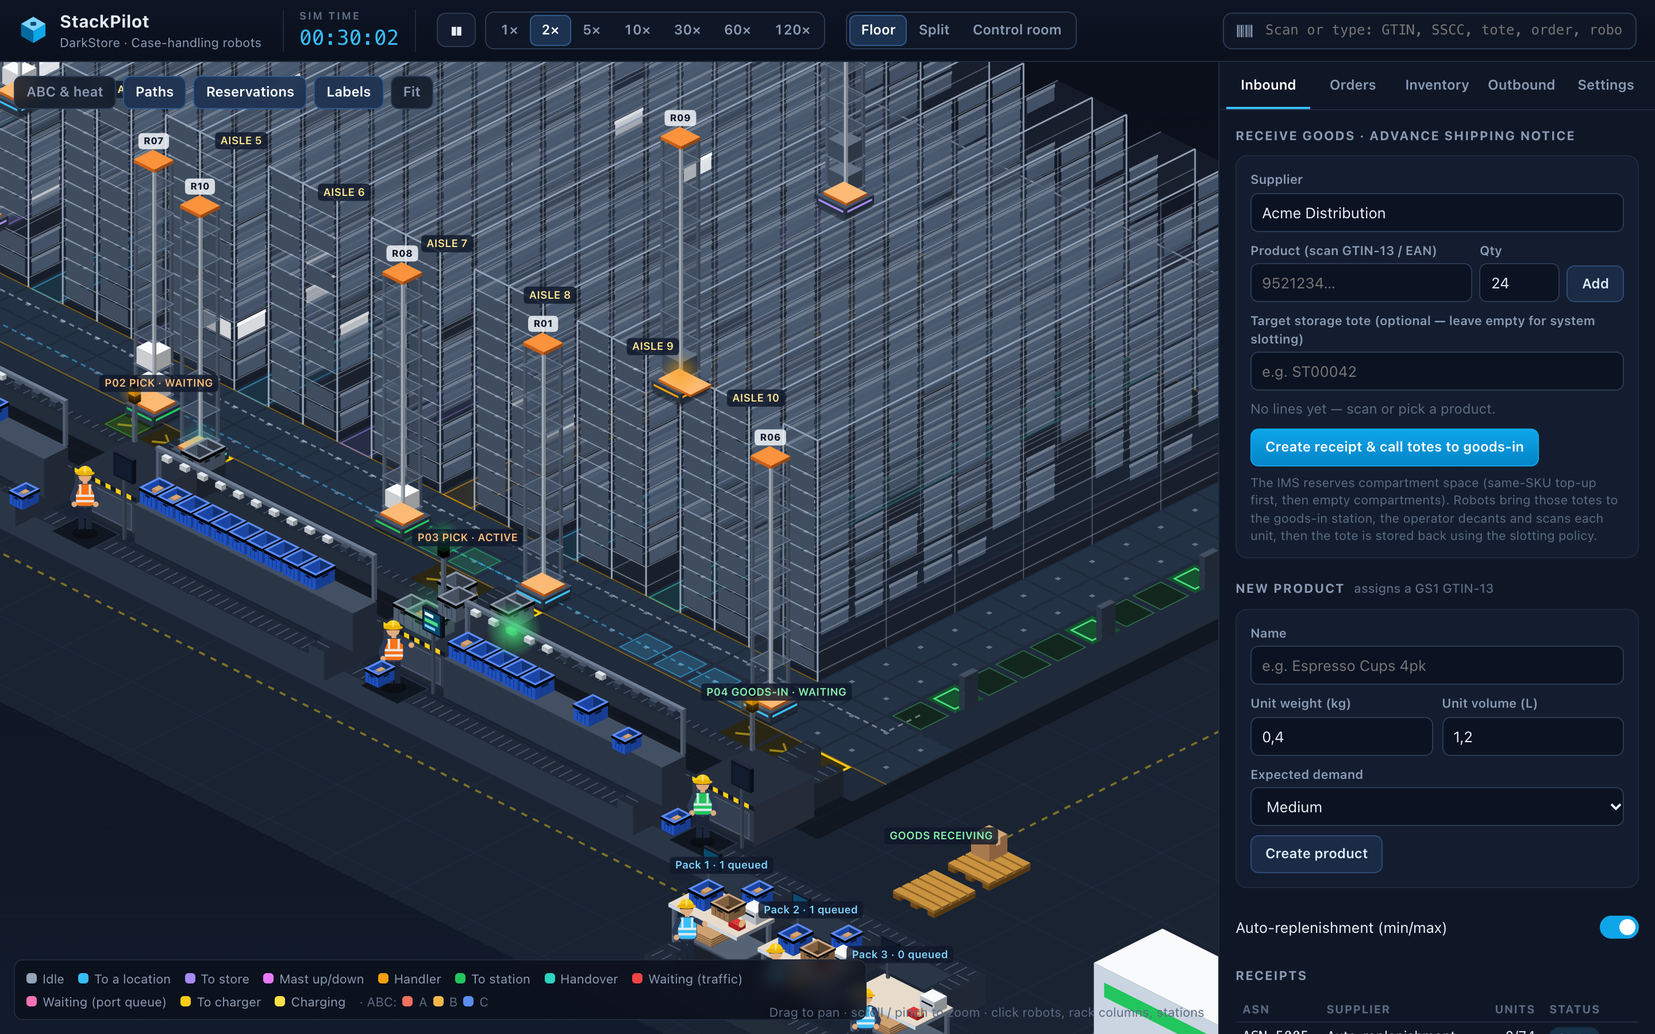
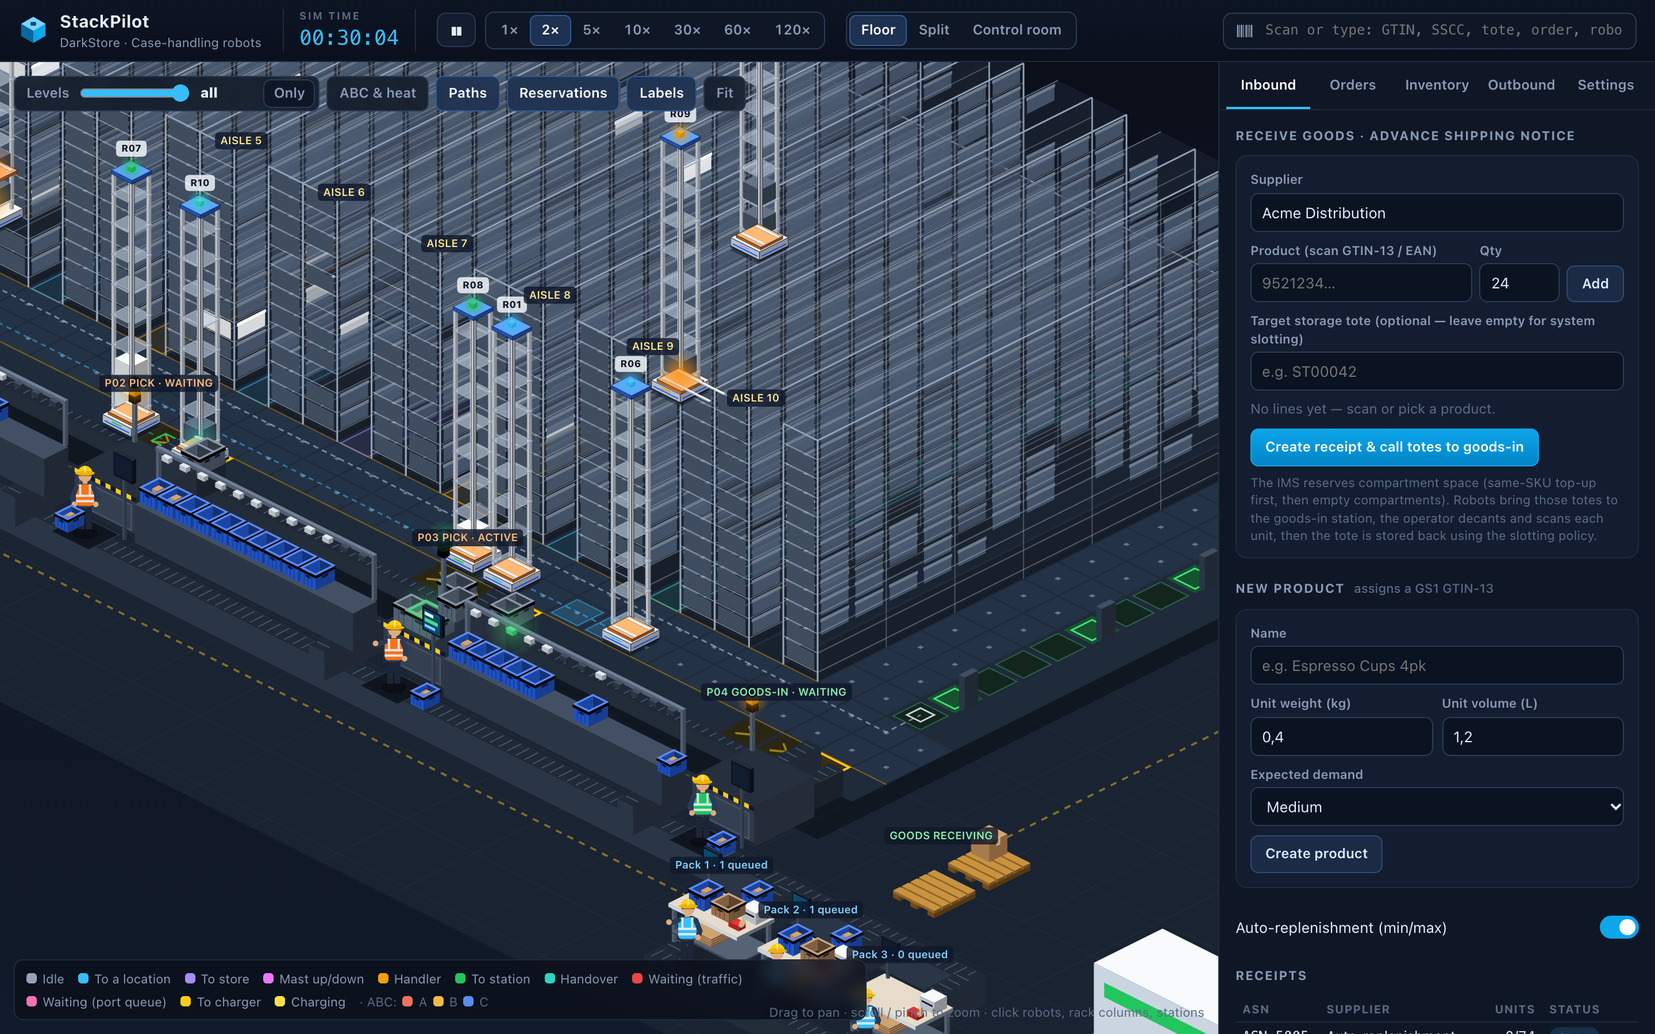
feat(render): machines that stand out and look like the real ones
Stacker cranes in safety orange with a bottom carriage on the floor rail,
hazard stripes, a control cabinet, a box-section mast, a top carriage with a
status beacon and telescopic forks that reach into the rack side being
served. Shuttles get orange end units with telescopic arms, lifts cyan
columns and a roller-conveyor carriage, StackPilot robots a white chassis
and mast with a blue top beam and an orange handler with forks. Shuttles
and cranes record which side they handle (view only; golden files
unchanged). Screenshots updated.

diff --git a/js/shuttle/render.js b/js/shuttle/render.js
@@ -1,10 +1,12 @@
 /* RailRunner view: the shared see-through racking (WS.PreZoneRenderer) with a pair
- * of shuttle rails per level, shuttles running inside the aisles, a lift tower
- * at the front of every aisle, and the pre-zone conveyor to the stations. */
+ * of shuttle rails per level, orange shuttles running inside the aisles, a cyan
+ * lift tower at the front of every aisle, and the pre-zone conveyor to the
+ * stations. */
 (function (WS) {
   'use strict';
   const { shade } = WS;
   const TOTE_H = WS.RACK_TOTE_H;
+  const ORANGE = '#f97316', ORANGE_TOP = '#fdba74', CYAN = '#06b6d4', CYAN_TOP = '#67e8f9';
 
   class ShuttleRenderer extends WS.PreZoneRenderer {
     drawScene() {
@@ -39,35 +41,47 @@
           if (!this.levelShown(l)) continue;
           const z = g.levelZ(l);
           [[aisle.outBuf[l], a * 3], [aisle.inBuf[l], a * 3 + 2]].forEach(([buf, x0]) => buf.forEach((it, k) => {
-            const b = B - 1 - k, col = '#f59e0b';
-            this.box(x0 + 0.1, b + 0.1, z + 0.06, x0 + 0.9, b + 0.9, z + 0.06 + TOTE_H, col, { top: shade(col, 0.2) });
+            const b = B - 1 - k;
+            this.toteBox(x0 + 0.1, b + 0.1, x0 + 0.9, b + 0.9, z + 0.06, this.toteColor(it.bin));
           }));
         }
-        for (const sh of aisle.shuttles) {
-          if (!this.levelShown(sh.l)) continue;
-          const z = g.levelZ(sh.l), x0 = a * 3 + 1.08, x1 = a * 3 + 1.92, y0 = sh.pos - 0.45, y1 = sh.pos + 0.45, col = WS.stateColor(this.sim, sh.displayState);
-          if (!sh.idle) this.glow(a * 3 + 1.5, sh.pos, z + 0.3, 22, col, 0.55);
-          // dark chassis on the rails, a state-coloured light band, a yellow load handler on top
-          this.box(x0, y0, z + 0.02, x1, y1, z + 0.34, '#273244', { top: '#3b4a60', left: '#222b3a', right: '#1a2230' });
-          this.faceY(y1 + 0.002, x0 + 0.06, x1 - 0.06, z + 0.14, z + 0.24, col);
-          this.faceX(x1 + 0.002, y0 + 0.06, y1 - 0.06, z + 0.14, z + 0.24, shade(col, -0.25));
-          this.quadTop(x0 + 0.12, y0 + 0.08, x1 - 0.12, y1 - 0.08, z + 0.341, sh.idle ? '#5c4a14' : '#ca8a04');
-          if (sh.bin) { const b = sim.inv.binById.get(sh.bin), c2 = this.toteColor(b); this.box(x0 + 0.08, y0 + 0.08, z + 0.34, x1 - 0.08, y1 - 0.08, z + 0.34 + TOTE_H, c2, { top: shade(c2, 0.15) }); }
-          const sel = this.selected && this.selected.kind === 'robot' && this.selected.id === sh.id;
-          if (sel) this.quadTop(x0 - 0.1, y0 - 0.1, x1 + 0.1, y1 + 0.1, z + 0.02, null, '#38bdf8', 2.5);
-        }
+        for (const sh of aisle.shuttles) if (this.levelShown(sh.l)) this.drawShuttle(sh, a);
       }
     }
-    // Lift tower in front of the aisle with its carriage and the I/O transfer.
+    // A shuttle in safety orange: two end units carrying the telescopic arms,
+    // which reach into the left or right rack while it takes or puts a tote,
+    // a dark deck between them for the tote, a status light on the front.
+    drawShuttle(sh, a) {
+      const sim = this.sim, g = sim.grid, z = g.levelZ(sh.l), cx = a * 3 + 1.5, y = sh.pos, x0 = cx - 0.42, x1 = cx + 0.42, y0 = y - 0.45, y1 = y + 0.45;
+      const col = WS.stateColor(sim, sh.displayState), edge = { stroke: 'rgba(15,23,42,0.55)', lw: 0.8 };
+      if (!sh.idle) this.glow(cx, y, z + 0.3, 22, ORANGE, 0.4);
+      let e = 0;
+      if (sh.state === 'HANDLING' && sh.op && sh.op.op === 'wait') e = Math.sin(Math.PI * Math.min(1, sh.op.t / sh.op.dur)) * 0.75;
+      this.box(x0 + 0.04, y0 + 0.14, z + 0.02, x1 - 0.04, y1 - 0.14, z + 0.12, '#1f2937', { top: '#334155' });
+      if (sh.bin) this.toteBox(x0 + 0.1, y0 + 0.17, x1 - 0.1, y1 - 0.17, z + 0.12, this.toteColor(sim.inv.binById.get(sh.bin)));
+      for (const [ya, yb] of [[y0, y0 + 0.14], [y1 - 0.14, y1]]) {
+        this.box(x0, ya, z + 0.02, x1, yb, z + 0.38, ORANGE, Object.assign({ top: ORANGE_TOP }, edge));
+        const ax0 = sh.face === 0 ? x0 - e : x0, ax1 = sh.face === 1 ? x1 + e : x1;
+        this.box(ax0, ya + 0.03, z + 0.38, ax1, yb - 0.03, z + 0.45, '#e2e8f0', { top: '#f8fafc' });
+      }
+      this.faceY(y1 + 0.002, x0 + 0.1, x1 - 0.1, z + 0.16, z + 0.28, col);
+      this.faceX(x1 + 0.002, y1 - 0.12, y1 - 0.02, z + 0.16, z + 0.28, col);
+      const sel = this.selected && this.selected.kind === 'robot' && this.selected.id === sh.id;
+      if (sel) this.quadTop(x0 - 0.1, y0 - 0.1, x1 + 0.1, y1 + 0.1, z + 0.02, null, '#38bdf8', 2.5);
+    }
+    // Vertical lift in front of the aisle: cyan columns and header, and a
+    // carriage with a roller conveyor that carries one tote.
     drawLift(aisle) {
-      const g = this.sim.grid, lift = aisle.lift, x0 = aisle.a * 3 + 1.08, x1 = aisle.a * 3 + 1.92, y0 = g.B + 0.06, y1 = g.B + 0.94;
-      for (const [px, py] of [[x0, y0], [x1, y0], [x0, y1], [x1, y1]]) this.box(px - 0.04, py - 0.04, 0, px + 0.04, py + 0.04, g.Z + 0.8, '#64748b');
-      this.box(x0 - 0.04, y0 - 0.04, g.Z + 0.8, x1 + 0.04, y1 + 0.04, g.Z + 1.1, '#475569');
-      const col = WS.stateColor(this.sim, lift.displayState);
-      this.box(x0 + 0.04, y0 + 0.04, lift.z - 0.12, x1 - 0.04, y1 - 0.04, lift.z, '#94a3b8', { top: '#334155' });
-      this.faceY(y1 - 0.039, x0 + 0.04, x1 - 0.04, lift.z - 0.12, lift.z - 0.02, col);
-      if (lift.bin) { const b = this.sim.inv.binById.get(lift.bin), c2 = this.toteColor(b); this.box(x0 + 0.12, y0 + 0.1, lift.z, x1 - 0.12, y1 - 0.1, lift.z + TOTE_H, c2, { top: shade(c2, 0.15) }); }
-      if (!lift.idle) this.glow(aisle.a * 3 + 1.5, g.B + 0.5, lift.z + 0.5, 18, col, 0.45);
+      const g = this.sim.grid, lift = aisle.lift, x0 = aisle.a * 3 + 1.06, x1 = aisle.a * 3 + 1.94, y0 = g.B + 0.06, y1 = g.B + 0.94, H = g.Z + 0.8;
+      const col = WS.stateColor(this.sim, lift.displayState), edge = { stroke: 'rgba(15,23,42,0.55)', lw: 0.8 }, cy = Object.assign({ top: CYAN_TOP }, edge);
+      for (const px of [x0, x1 - 0.1]) this.box(px, y0, 0, px + 0.1, y0 + 0.12, H, CYAN, cy);
+      this.box(x0, y0, H, x1, y0 + 0.16, H + 0.3, CYAN, cy);
+      this.hazardY(y0 + 0.122, x0, x0 + 0.1, 0.1, 0.9, 3); this.hazardY(y0 + 0.122, x1 - 0.1, x1, 0.1, 0.9, 3);
+      if (!lift.idle) this.glow(aisle.a * 3 + 1.5, g.B + 0.5, lift.z + 0.4, 20, CYAN, 0.45);
+      this.box(x0 + 0.1, y0 + 0.12, lift.z - 0.16, x1 - 0.1, y1 - 0.04, lift.z, CYAN, Object.assign({ top: '#164e63' }, edge));
+      for (let k = 1; k < 6; k++) { const ry = y0 + 0.12 + ((y1 - y0 - 0.16) * k) / 6; this.line(this.P(x0 + 0.12, ry, lift.z + 0.001), this.P(x1 - 0.12, ry, lift.z + 0.001), '#67e8f9', 1); }
+      this.faceY(y1 - 0.038, x0 + 0.16, x1 - 0.16, lift.z - 0.13, lift.z - 0.05, col);
+      if (lift.bin) { const b = this.sim.inv.binById.get(lift.bin), c2 = this.toteColor(b); this.box(x0 + 0.16, y0 + 0.18, lift.z, x1 - 0.16, y1 - 0.1, lift.z + TOTE_H, c2, { top: shade(c2, 0.15) }); }
       const sel = this.selected && this.selected.kind === 'robot' && this.selected.id === lift.id;
       if (sel) this.quadTop(x0 - 0.1, y0 - 0.1, x1 + 0.1, y1 + 0.1, lift.z, null, '#38bdf8', 2.5);
       // totes waiting to go up

diff --git a/js/acr/render.js b/js/acr/render.js
@@ -8,6 +8,7 @@
   'use strict';
   const C = WS.CELL;
   const BODY = 0.55; // drive unit height (render levels)
+  const BLUE = '#2563eb', ORANGE = '#f97316';
 
   class AcrRenderer extends WS.RackRenderer {
     drawScene(alpha) {
@@ -107,39 +108,44 @@
     }
 
     // ---------------------------------------------------------------- robots
-    // Drive unit, mast with the back shelves (top shelf first holds the first
-    // tote loaded), the handler at its current height reaching into the rack
-    // while it takes or puts a tote.
+    // A case-handling robot: a white drive unit with a dark bumper and a blue
+    // accent, a white mast frame with the back shelves (the totes it carries),
+    // a blue top beam with a status beacon, and the orange handler at its
+    // current height, its forks reaching into the rack while it takes or puts.
     drawRobot(r, x, y) {
-      const sim = this.sim, g = sim.grid, N = sim.cfg.robotSlots, col = WS.stateColor(this.sim, r.displayState);
+      const sim = this.sim, g = sim.grid, N = sim.cfg.robotSlots, col = WS.stateColor(sim, r.displayState);
       const cx = x + 0.5, cy = y + 0.5, H = g.Z + 0.5, x0 = cx - 0.3, x1 = cx + 0.3, y0 = cy - 0.28, y1 = cy + 0.28;
+      const edge = { stroke: 'rgba(15,23,42,0.5)', lw: 0.8 };
       this.quadTop(cx - 0.36, cy - 0.34, cx + 0.48, cy + 0.5, 0.005, 'rgba(0,0,0,0.35)');
-      this.box(cx - 0.42, cy - 0.42, 0.02, cx + 0.42, cy + 0.42, BODY, '#334155', { top: '#475569' });
-      this.faceY(cy + 0.421, cx - 0.36, cx + 0.36, 0.28, 0.4, col);
-      this.faceX(cx + 0.421, cy - 0.36, cy + 0.36, 0.28, 0.4, col);
-      // mast: back posts, shelves with totes, front post
-      for (const [px, py] of [[x0, y0], [x1 - 0.06, y0], [x0, y1 - 0.06]]) this.box(px, py, BODY, px + 0.06, py + 0.06, H, '#64748b');
-      this.ctx.globalAlpha = 0.3;
-      this.box(x0, y0, BODY, x1, y1, H, '#475569', { top: '#64748b' });
-      this.ctx.globalAlpha = 1;
+      this.box(cx - 0.42, cy - 0.42, 0.02, cx + 0.42, cy + 0.42, BODY, '#e2e8f0', Object.assign({ top: '#f8fafc' }, edge));
+      this.faceY(cy + 0.421, cx - 0.42, cx + 0.42, 0.02, 0.12, '#1e293b'); this.faceX(cx + 0.421, cy - 0.42, cy + 0.42, 0.02, 0.12, '#0f172a');
+      this.faceY(cy + 0.422, cx - 0.36, cx + 0.36, 0.22, 0.3, BLUE); this.faceX(cx + 0.422, cy - 0.36, cy + 0.36, 0.22, 0.3, '#1d4ed8');
+      this.faceY(cy + 0.423, cx - 0.14, cx + 0.14, 0.36, 0.44, col);
+      // mast frame: back posts, shelves with totes, front post
+      for (const [px, py] of [[x0, y0], [x1 - 0.07, y0], [x0, y1 - 0.07]]) this.box(px, py, BODY, px + 0.07, py + 0.07, H, '#e2e8f0', { top: '#f8fafc' });
       for (let k = 0; k < N; k++) {
         const z = BODY + 0.5 + (k * (H - BODY - 1.6)) / Math.max(1, N - 1);
-        this.quadTop(x0, y0, x1, y1, z, 'rgba(71,85,105,0.7)', '#64748b', 1);
+        this.quadTop(x0, y0, x1, y1, z, 'rgba(203,213,225,0.55)', '#94a3b8', 1);
         const id = r.load[k];
-        if (id) this.toteBox(x0 + 0.04, y0 + 0.04, x1 - 0.04, y1 - 0.04, z, this.toteColor(sim.inv.binById.get(id)));
+        if (id) this.toteBox(x0 + 0.05, y0 + 0.05, x1 - 0.05, y1 - 0.05, z, this.toteColor(sim.inv.binById.get(id)));
       }
-      this.box(x1 - 0.06, y1 - 0.06, BODY, x1, y1, H, '#cbd5e1');
-      this.box(x0, y0, H, x1, y1, H + 0.18, '#f97316', { top: '#fb923c' });
-      // handler: a tray on the mast, reaching left or right into the rack
+      this.box(x1 - 0.07, y1 - 0.07, BODY, x1, y1, H, '#f8fafc', Object.assign({ top: '#ffffff' }, edge));
+      this.box(x0, y0, H, x1, y1, H + 0.2, BLUE, Object.assign({ top: '#60a5fa' }, edge));
+      this.box(cx - 0.06, cy - 0.06, H + 0.2, cx + 0.06, cy + 0.06, H + 0.45, col, { top: WS.shade(col, 0.35) });
+      this.glow(cx, cy, H + 0.35, 12, col, 0.8);
+      // handler: a tray with forks reaching left or right into the rack
       let e = 0;
       if (r.state === 'HANDLING' && r.op && r.op.op === 'timer') e = Math.sin(Math.PI * Math.min(1, r.op.t / r.op.dur)) * 0.75;
-      const hx0 = r.face ? cx - 0.34 : cx - 0.34 - e, hx1 = r.face ? cx + 0.34 + e : cx + 0.34;
-      this.box(hx0, cy - 0.3, r.mast - 0.06, hx1, cy + 0.3, r.mast + 0.08, '#f97316', { top: '#fdba74' });
-      if (r.state === 'HANDLING' || r.state === 'MAST') this.glow(cx, cy, r.mast + 0.3, 18, col, 0.35);
+      this.box(cx - 0.36, cy - 0.32, r.mast - 0.08, cx + 0.36, cy + 0.32, r.mast + 0.06, ORANGE, Object.assign({ top: '#fdba74' }, edge));
+      for (const fy of [cy - 0.24, cy + 0.18]) {
+        const fx0 = r.face ? cx - 0.3 : cx - 0.36 - e, fx1 = r.face ? cx + 0.36 + e : cx + 0.3;
+        this.box(fx0, fy, r.mast + 0.06, fx1, fy + 0.06, r.mast + 0.11, '#cbd5e1', { top: '#f1f5f9' });
+      }
+      if (r.state === 'HANDLING' || r.state === 'MAST') this.glow(cx, cy, r.mast + 0.3, 20, ORANGE, 0.45);
       if (r.displayState === 'WAITING_IN_TRAFFIC' || r.busy) this.glow(cx, cy, BODY + 0.4, 20, col, 0.35 + 0.25 * Math.sin(this.t * 6));
       const sel = this.selected && this.selected.kind === 'robot' && this.selected.id === r.id;
       if (sel) this.quadTop(x - 0.06, y - 0.06, x + 1.06, y + 1.06, 0.02, null, '#38bdf8', 2.5);
-      if (this.opts.labels) this.robotTag(r, cx, cy, H + 1.2, 'rgba(241,245,249,0.85)');
+      if (this.opts.labels) this.robotTag(r, cx, cy, H + 1.4, 'rgba(241,245,249,0.85)');
     }
     // totes back from a station, waiting on its return conveyor for a robot
     drawReturns(p) {

diff --git a/js/crane/render.js b/js/crane/render.js
@@ -1,9 +1,11 @@
 /* SkyStack view: the shared see-through racking (WS.PreZoneRenderer) with a floor
- * rail and a top guide rail in every aisle, a stacker crane per aisle (mast,
- * drive unit, carriage with a twin load handler), returning totes waiting at
+ * rail and a top guide rail in every aisle, an orange stacker crane per aisle
+ * (drive unit, mast, carriage with a twin load handler), returning totes waiting at
  * the I/O point and the pre-zone conveyor to the stations. */
 (function (WS) {
   'use strict';
+  const { shade } = WS;
+  const ORANGE = '#f97316', ORANGE_TOP = '#fdba74';
 
   class CraneRenderer extends WS.PreZoneRenderer {
     drawScene() {
@@ -27,24 +29,46 @@
       if (this.opts.cutTop == null) this.line(P(cx, 0, g.Z + 0.35), P(cx, y1, g.Z + 0.35), 'rgba(250,204,21,0.45)', 1.2);
     }
 
+    // A mini-load stacker crane in safety orange: bottom carriage on the floor
+    // rail with the control cabinet in front, a box-section mast, the top
+    // carriage on the guide rail with a status beacon, and the lifting
+    // carriage whose telescopic forks reach into a rack side or the I/O point.
     drawCrane(cr) {
-      const sim = this.sim, g = sim.grid, cx = g.laneX(cr.a), y = cr.pos, z = cr.z, col = WS.stateColor(this.sim, cr.displayState), top = g.Z + 0.35;
-      if (!cr.idle) this.glow(cx, y, z + 0.4, 26, col, 0.5);
-      // drive unit on the floor rail, mast behind the carriage, guide wheels at the top
-      this.box(cx - 0.3, y - 0.55, 0, cx + 0.3, y + 0.55, 0.32, '#273244', { top: '#3b4a60', left: '#222b3a', right: '#1a2230' });
-      this.faceY(y + 0.552, cx - 0.24, cx + 0.24, 0.12, 0.22, col);
-      this.box(cx - 0.12, y - 0.52, 0.32, cx + 0.12, y - 0.32, top, '#64748b');
-      this.box(cx - 0.16, y - 0.56, top, cx + 0.16, y - 0.28, top + 0.22, '#475569');
-      // carriage with the load handler, a state-coloured band and up to two totes
-      const x0 = cx - 0.44, x1 = cx + 0.44, y0 = y - 0.32, y1 = y + 0.5;
-      this.box(x0, y0, z - 0.16, x1, y1, z, '#94a3b8', { top: cr.idle ? '#5c4a14' : '#ca8a04' });
-      this.faceY(y1 + 0.002, x0 + 0.05, x1 - 0.05, z - 0.13, z - 0.04, col);
+      const sim = this.sim, g = sim.grid, cx = g.laneX(cr.a), y = cr.pos, z = cr.z, col = WS.stateColor(sim, cr.displayState), top = g.Z + 0.35;
+      const edge = { stroke: 'rgba(15,23,42,0.55)', lw: 0.8 }, or = Object.assign({ top: ORANGE_TOP }, edge);
+      if (cr.state !== 'IDLE') this.glow(cx, y, z + 0.3, 30, ORANGE, 0.3);
+      // bottom carriage with wheels, hazard stripes at the ends
+      this.box(cx - 0.26, y - 0.72, 0.02, cx + 0.26, y + 0.62, 0.42, ORANGE, or);
+      this.hazardY(y + 0.622, cx - 0.26, cx + 0.26, 0.1, 0.34, 6);
+      for (const wy of [y - 0.5, y + 0.4]) this.wheelX(cx + 0.262, wy, 0.17, 0.12, 0.12);
+      // mast, its carriage guide, the top carriage and the beacon
+      this.box(cx - 0.16, y - 0.62, 0.42, cx + 0.16, y - 0.3, top, ORANGE, or);
+      this.faceY(y - 0.298, cx - 0.05, cx + 0.05, 0.5, top - 0.05, '#9a3412');
+      this.box(cx - 0.22, y - 0.7, top, cx + 0.22, y - 0.22, top + 0.32, ORANGE, or);
+      this.box(cx - 0.07, y - 0.53, top + 0.32, cx + 0.07, y - 0.39, top + 0.6, col, { top: shade(col, 0.35) });
+      this.glow(cx, y - 0.46, top + 0.5, 14, col, 0.8);
+      // control cabinet on the front end
+      this.box(cx - 0.2, y + 0.62, 0.02, cx + 0.2, y + 0.92, 1.8, '#e2e8f0', Object.assign({ top: '#f8fafc' }, edge));
+      this.faceY(y + 0.922, cx - 0.13, cx + 0.13, 1.25, 1.6, '#0f172a');
+      this.faceY(y + 0.924, cx - 0.1, cx + 0.04, 1.42, 1.5, col);
+      // lifting carriage: orange side plates, dark deck, telescopic forks
+      const x0 = cx - 0.44, x1 = cx + 0.44, y0 = y - 0.3, y1 = y + 0.5;
+      let e = 0;
+      if (cr.state === 'HANDLING' && cr.op && cr.op.op === 'wait') e = Math.sin(Math.PI * Math.min(1, cr.op.t / cr.op.dur)) * 0.8;
+      this.box(x0, y0, z - 0.2, x1, y1, z - 0.04, '#334155', Object.assign({ top: '#475569' }, edge));
+      for (const fy of [y0 + 0.12, y1 - 0.16]) {
+        const fx0 = cr.face === 0 ? x0 - e : x0 + 0.06, fx1 = cr.face === 1 ? x1 + e : x1 - 0.06;
+        this.box(fx0, fy, z - 0.06, fx1, fy + 0.05, z, '#cbd5e1', { top: '#e2e8f0' });
+      }
+      if (cr.face < 0 && e) this.box(cx - 0.3, y1, z - 0.06, cx + 0.3, y1 + e, z, '#cbd5e1', { top: '#e2e8f0' });
       cr.load.forEach((id, k) => {
         const c2 = this.toteColor(sim.inv.binById.get(id)), ya = y0 + 0.04 + k * 0.4;
-        this.toteBox(x0 + 0.06, ya, x1 - 0.06, ya + 0.36, z, c2);
+        this.toteBox(x0 + 0.1, ya, x1 - 0.1, ya + 0.36, z, c2);
       });
+      for (const px of [x0, x1 - 0.07]) this.box(px, y0, z - 0.2, px + 0.07, y1, z + 0.5, ORANGE, or);
+      this.faceY(y1 + 0.002, x0 + 0.1, x1 - 0.1, z - 0.16, z - 0.08, col);
       const sel = this.selected && this.selected.kind === 'robot' && this.selected.id === cr.id;
-      if (sel) this.quadTop(x0 - 0.1, y0 - 0.1, x1 + 0.1, y1 + 0.1, z, null, '#38bdf8', 2.5);
+      if (sel) this.quadTop(x0 - 0.12, y0 - 0.12, x1 + 0.12, y1 + 0.12, z, null, '#38bdf8', 2.5);
     }
     // returning totes waiting on the infeed for the crane
     drawInfeed(aisle) {

diff --git a/js/shuttle/sim.js b/js/shuttle/sim.js
@@ -17,6 +17,7 @@
     constructor(sim, id, a, l) {
       super(sim, id, `S${a + 1}.${String(l + 1).padStart(2, '0')}`);
       this.a = a; this.l = l; this.pos = sim.front; this.jobs = []; this.axis = 'y';
+      this.face = 0; // rack side the load handler works on (0 left, 1 right); for the view
     }
     place() { this.rx = this.a * 4 + 1; this.ry = this.sim.cfg.levels - 1 - this.l; this.x = this.a; this.y = this.l; }
   }
@@ -38,13 +39,13 @@
     const cfg = sim.cfg, aisle = sim.aisles[sh.a], bin = item.bin;
     sh.state = 'MOVING_TO_TARGET';
     yield sim.shuttleTravel(sim.front);
-    sh.state = 'HANDLING';
+    sh.state = 'HANDLING'; sh.face = 1; // the inbound buffer is on the right
     yield { op: 'wait', t: cfg.handlerTime };
     aisle.inBuf[sh.l].splice(aisle.inBuf[sh.l].indexOf(item), 1);
     bin.loc = 'shuttle'; bin.robot = sh.id; sh.bin = bin.id;
     sh.state = 'STORING';
     yield sim.shuttleTravel(item.b + 0.5);
-    sh.state = 'HANDLING';
+    sh.state = 'HANDLING'; sh.face = item.s;
     yield { op: 'wait', t: cfg.handlerTime };
     aisle.resv[sim.si(item.l, item.s, item.b)] = false;
     sim.place(bin, sh.a, item.l, item.s, item.b);
@@ -54,7 +55,7 @@
     const cfg = sim.cfg, aisle = sim.aisles[sh.a], bin = task.bin;
     sh.state = 'MOVING_TO_TARGET';
     yield sim.shuttleTravel(bin.bay + 0.5);
-    sh.state = 'HANDLING';
+    sh.state = 'HANDLING'; sh.face = bin.side;
     yield { op: 'wait', t: cfg.handlerTime };
     sim.take(bin);
     bin.loc = 'shuttle'; bin.robot = sh.id; sh.bin = bin.id; bin.task = null;
@@ -62,7 +63,7 @@
     sh.state = 'TRANSPORTING_TO_PORT';
     yield sim.shuttleTravel(sim.front);
     yield { op: 'until', fn: () => aisle.outBuf[sh.l].length < cfg.bufferSize, waitState: 'WAITING_PORT' };
-    sh.state = 'HANDLING';
+    sh.state = 'HANDLING'; sh.face = 0; // the outbound buffer is on the left
     yield { op: 'wait', t: cfg.handlerTime };
     aisle.outBuf[sh.l].push({ bin, port: task.port, t: sim.time });
     bin.loc = 'buffer'; sh.bin = null; sh.lifts++; sim.onCycle();

diff --git a/js/crane/sim.js b/js/crane/sim.js
@@ -22,6 +22,7 @@
       super(sim, id, `C${a + 1}`);
       this.a = a; this.pos = sim.ioPos; this.z = sim.grid.ioZ; this.axis = 'xz';
       this.jobs = []; // retrievals waiting for this crane
+      this.face = -1; // where the forks reach: 0 left rack, 1 right rack, -1 the I/O point; for the view
       this.load = []; // tote ids on the load handler
     }
     place() {
@@ -40,7 +41,7 @@
   function* craneCycle(sim, cr, stores, rets) {
     const cfg = sim.cfg, g = sim.grid, aisle = sim.aisles[cr.a], t0 = sim.time;
     for (const it of stores) {
-      cr.state = 'HANDLING';
+      cr.state = 'HANDLING'; cr.face = -1;
       yield { op: 'wait', t: cfg.forkTime };
       aisle.inQ.splice(aisle.inQ.indexOf(it), 1);
       it.bin.loc = 'crane'; it.bin.robot = cr.id; cr.hold(it.bin.id);
@@ -48,7 +49,7 @@
     for (const it of stores) {
       cr.state = 'STORING';
       yield sim.craneTravel(it.b + 0.5, g.levelZ(it.l));
-      cr.state = 'HANDLING';
+      cr.state = 'HANDLING'; cr.face = it.s;
       yield { op: 'wait', t: cfg.forkTime };
       aisle.resv[sim.si(it.l, it.s, it.b)] = false;
       cr.drop(it.bin.id);
@@ -59,7 +60,7 @@
       const bin = t.bin;
       cr.state = 'MOVING_TO_TARGET';
       yield sim.craneTravel(bin.bay + 0.5, g.levelZ(bin.level));
-      cr.state = 'HANDLING';
+      cr.state = 'HANDLING'; cr.face = bin.side;
       yield { op: 'wait', t: cfg.forkTime };
       sim.take(bin);
       bin.loc = 'crane'; bin.robot = cr.id; bin.task = null; cr.hold(bin.id);
@@ -68,7 +69,7 @@
     cr.state = rets.length ? 'TRANSPORTING_TO_PORT' : 'MOVING_TO_TARGET';
     yield sim.craneTravel(sim.ioPos, g.ioZ);
     for (const t of rets) {
-      cr.state = 'HANDLING';
+      cr.state = 'HANDLING'; cr.face = -1;
       yield { op: 'wait', t: cfg.forkTime };
       cr.drop(t.bin.id); cr.lifts++;
       const port = sim.ports[t.port];

diff --git a/js/render/iso.js b/js/render/iso.js
@@ -173,6 +173,9 @@
     // rectangles and discs lying in a vertical plane: faceY on y = const (left-facing), faceX on x = const (right-facing)
     faceY(y, xa, xb, za, zb, fill, stroke) { const P = this.P.bind(this); this.poly([P(xa, y, za), P(xb, y, za), P(xb, y, zb), P(xa, y, zb)], fill, stroke); }
     faceX(x, ya, yb, za, zb, fill, stroke) { const P = this.P.bind(this); this.poly([P(x, ya, za), P(x, yb, za), P(x, yb, zb), P(x, ya, zb)], fill, stroke); }
+    // black-and-yellow hazard stripes on a vertical face, n segments
+    hazardY(y, xa, xb, za, zb, n) { for (let k = 0; k < n; k++) this.faceY(y, xa + ((xb - xa) * k) / n, xa + ((xb - xa) * (k + 1)) / n, za, zb, k % 2 ? '#111827' : '#facc15'); }
+    hazardX(x, ya, yb, za, zb, n) { for (let k = 0; k < n; k++) this.faceX(x, ya + ((yb - ya) * k) / n, ya + ((yb - ya) * (k + 1)) / n, za, zb, k % 2 ? '#0b1220' : '#d4a90f'); }
     discY(cx, y, cz, r, rz, fill) { const pts = []; for (let k = 0; k < 14; k++) { const a = (k * Math.PI) / 7; pts.push(this.P(cx + r * Math.cos(a), y, cz + rz * Math.sin(a))); } this.poly(pts, fill); }
     discX(x, cy, cz, r, rz, fill) { const pts = []; for (let k = 0; k < 14; k++) { const a = (k * Math.PI) / 7; pts.push(this.P(x, cy + r * Math.cos(a), cz + rz * Math.sin(a))); } this.poly(pts, fill); }
     wheelY(cx, y, cz, r, rz) { this.discY(cx, y, cz, r, rz, '#0b0f17'); this.discY(cx, y + 0.001, cz, r * 0.45, rz * 0.45, '#64748b'); }
